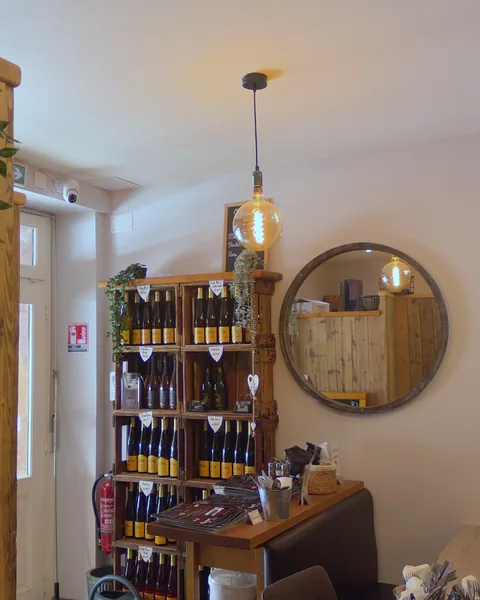
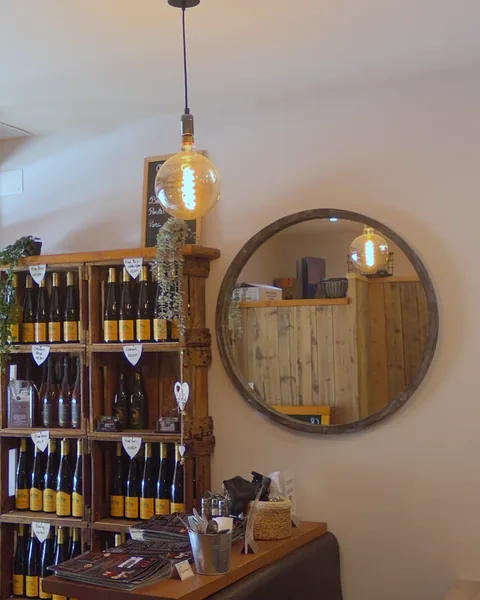
Au 119 : galerie — l'entrée et l'ardoise recadrées
- L'entrée : cadrage sur les casiers de vins, le miroir et la suspension
  (plus de porte, de caméra ni d'extincteur dans le champ).
- L'ardoise des viandes : plus d'étiquette de prix coupée en bas de l'image.

Claude-Session: https://claude.ai/code/session_01KRdyyCRgdm1DDYtrm7TTSp

diff --git a/au-119-kaysersberg/public/de/index.html b/au-119-kaysersberg/public/de/index.html
@@ -30,8 +30,8 @@
 <link rel="preload" href="../assets/fonts/instrument-sans.woff2" as="font" type="font/woff2" crossorigin>
 <link rel="preload" as="image" href="../assets/img/facade-1080.webp" imagesrcset="../assets/img/facade-720.webp 720w, ../assets/img/facade-1080.webp 1080w" imagesizes="(min-width: 900px) 30vw, 84vw" fetchpriority="high">
 <script>(function(d){d.className="js";setTimeout(function(){if(!/\bready\b/.test(d.className))d.className=d.className.replace(/\bjs\b/,"")},4500)})(document.documentElement)</script>
-<script src="../assets/js/main.js?v=202611252116" defer></script>
-<link rel="stylesheet" href="../assets/css/styles.css?v=202611252116">
+<script src="../assets/js/main.js?v=202611252117" defer></script>
+<link rel="stylesheet" href="../assets/css/styles.css?v=202611252117">
 <script type="application/ld+json">{"@context": "https://schema.org", "@type": "Restaurant", "name": "Au 119", "description": "Elsässer Brasserie in Kaysersberg, gleich bei der Wehrbrücke. Choucroute, Baeckeoffe, Flammkuchen durchgehend, Elsässer Weine und Terrasse. Durchgehend geöffnet von 10 bis 18 Uhr.", "url": "https://kaysersberg-au119.restaurant/de/", "image": "https://kaysersberg-au119.restaurant/og.jpg", "telephone": "+33 3 89 27 56 13", "servesCuisine": ["Alsacienne", "Française"], "priceRange": "€€", "acceptsReservations": "True", "hasMenu": "https://kaysersberg-au119.restaurant/de/#carte", "address": {"@type": "PostalAddress", "streetAddress": "119 rue du Général de Gaulle", "postalCode": "68240", "addressLocality": "Kaysersberg Vignoble", "addressRegion": "Alsace", "addressCountry": "FR"}, "geo": {"@type": "GeoCoordinates", "latitude": 48.1403445, "longitude": 7.2597468}, "openingHoursSpecification": [{"@type": "OpeningHoursSpecification", "dayOfWeek": ["Monday", "Tuesday", "Wednesday", "Thursday", "Friday", "Saturday", "Sunday"], "opens": "10:00", "closes": "18:00"}], "hasMap": "https://www.google.com/maps/search/?api=1&query=Au+119+Kaysersberg&query_place_id=ChIJ7xsnDfBgkUcRcOkTp5r7QMo"}</script>
 </head>
 <body data-lang="de">

diff --git a/au-119-kaysersberg/public/en/index.html b/au-119-kaysersberg/public/en/index.html
@@ -30,8 +30,8 @@
 <link rel="preload" href="../assets/fonts/instrument-sans.woff2" as="font" type="font/woff2" crossorigin>
 <link rel="preload" as="image" href="../assets/img/facade-1080.webp" imagesrcset="../assets/img/facade-720.webp 720w, ../assets/img/facade-1080.webp 1080w" imagesizes="(min-width: 900px) 30vw, 84vw" fetchpriority="high">
 <script>(function(d){d.className="js";setTimeout(function(){if(!/\bready\b/.test(d.className))d.className=d.className.replace(/\bjs\b/,"")},4500)})(document.documentElement)</script>
-<script src="../assets/js/main.js?v=202611252116" defer></script>
-<link rel="stylesheet" href="../assets/css/styles.css?v=202611252116">
+<script src="../assets/js/main.js?v=202611252117" defer></script>
+<link rel="stylesheet" href="../assets/css/styles.css?v=202611252117">
 <script type="application/ld+json">{"@context": "https://schema.org", "@type": "Restaurant", "name": "Au 119", "description": "Alsatian brasserie in Kaysersberg, steps from the fortified bridge. Choucroute, baeckeoffe, tartes flambées served all day, Alsace wines and a terrace. Open 10 am to 6 pm, non-stop.", "url": "https://kaysersberg-au119.restaurant/en/", "image": "https://kaysersberg-au119.restaurant/og.jpg", "telephone": "+33 3 89 27 56 13", "servesCuisine": ["Alsacienne", "Française"], "priceRange": "€€", "acceptsReservations": "True", "hasMenu": "https://kaysersberg-au119.restaurant/en/#carte", "address": {"@type": "PostalAddress", "streetAddress": "119 rue du Général de Gaulle", "postalCode": "68240", "addressLocality": "Kaysersberg Vignoble", "addressRegion": "Alsace", "addressCountry": "FR"}, "geo": {"@type": "GeoCoordinates", "latitude": 48.1403445, "longitude": 7.2597468}, "openingHoursSpecification": [{"@type": "OpeningHoursSpecification", "dayOfWeek": ["Monday", "Tuesday", "Wednesday", "Thursday", "Friday", "Saturday", "Sunday"], "opens": "10:00", "closes": "18:00"}], "hasMap": "https://www.google.com/maps/search/?api=1&query=Au+119+Kaysersberg&query_place_id=ChIJ7xsnDfBgkUcRcOkTp5r7QMo"}</script>
 </head>
 <body data-lang="en">

diff --git a/au-119-kaysersberg/public/index.html b/au-119-kaysersberg/public/index.html
@@ -30,8 +30,8 @@
 <link rel="preload" href="assets/fonts/instrument-sans.woff2" as="font" type="font/woff2" crossorigin>
 <link rel="preload" as="image" href="assets/img/facade-1080.webp" imagesrcset="assets/img/facade-720.webp 720w, assets/img/facade-1080.webp 1080w" imagesizes="(min-width: 900px) 30vw, 84vw" fetchpriority="high">
 <script>(function(d){d.className="js";setTimeout(function(){if(!/\bready\b/.test(d.className))d.className=d.className.replace(/\bjs\b/,"")},4500)})(document.documentElement)</script>
-<script src="assets/js/main.js?v=202611252116" defer></script>
-<link rel="stylesheet" href="assets/css/styles.css?v=202611252116">
+<script src="assets/js/main.js?v=202611252117" defer></script>
+<link rel="stylesheet" href="assets/css/styles.css?v=202611252117">
 <script type="application/ld+json">{"@context": "https://schema.org", "@type": "Restaurant", "name": "Au 119", "description": "Brasserie alsacienne à Kaysersberg, à deux pas du pont fortifié. Choucroute, baeckeoffe, tartes flambées servies à toute heure, vins d’Alsace et terrasse. Service continu de 10 h à 18 h.", "url": "https://kaysersberg-au119.restaurant/", "image": "https://kaysersberg-au119.restaurant/og.jpg", "telephone": "+33 3 89 27 56 13", "servesCuisine": ["Alsacienne", "Française"], "priceRange": "€€", "acceptsReservations": "True", "hasMenu": "https://kaysersberg-au119.restaurant/#carte", "address": {"@type": "PostalAddress", "streetAddress": "119 rue du Général de Gaulle", "postalCode": "68240", "addressLocality": "Kaysersberg Vignoble", "addressRegion": "Alsace", "addressCountry": "FR"}, "geo": {"@type": "GeoCoordinates", "latitude": 48.1403445, "longitude": 7.2597468}, "openingHoursSpecification": [{"@type": "OpeningHoursSpecification", "dayOfWeek": ["Monday", "Tuesday", "Wednesday", "Thursday", "Friday", "Saturday", "Sunday"], "opens": "10:00", "closes": "18:00"}], "hasMap": "https://www.google.com/maps/search/?api=1&query=Au+119+Kaysersberg&query_place_id=ChIJ7xsnDfBgkUcRcOkTp5r7QMo"}</script>
 </head>
 <body data-lang="fr">

diff --git a/au-119-kaysersberg/public/404.html b/au-119-kaysersberg/public/404.html
@@ -9,7 +9,7 @@
 <meta name="theme-color" content="#F0E6D2">
 <link rel="icon" href="/favicon.svg" type="image/svg+xml">
 <link rel="icon" href="/favicon-48.png" sizes="48x48" type="image/png">
-<link rel="stylesheet" href="/assets/css/styles.css?v=202611252116">
+<link rel="stylesheet" href="/assets/css/styles.css?v=202611252117">
 <style>
 .nf { min-height: 100vh; min-height: 100svh; display: grid; place-items: center; padding: calc(var(--bar-h) + 24px) var(--pad) 56px; text-align: center; }
 .nf__n { font-family: var(--serif); font-weight: 800; font-variation-settings: "opsz" 144, "SOFT" 50, "WONK" 0; font-size: clamp(132px, 38vw, 380px); line-height: .8; letter-spacing: -.035em; color: var(--red); margin: .12em 0 .2em; }
